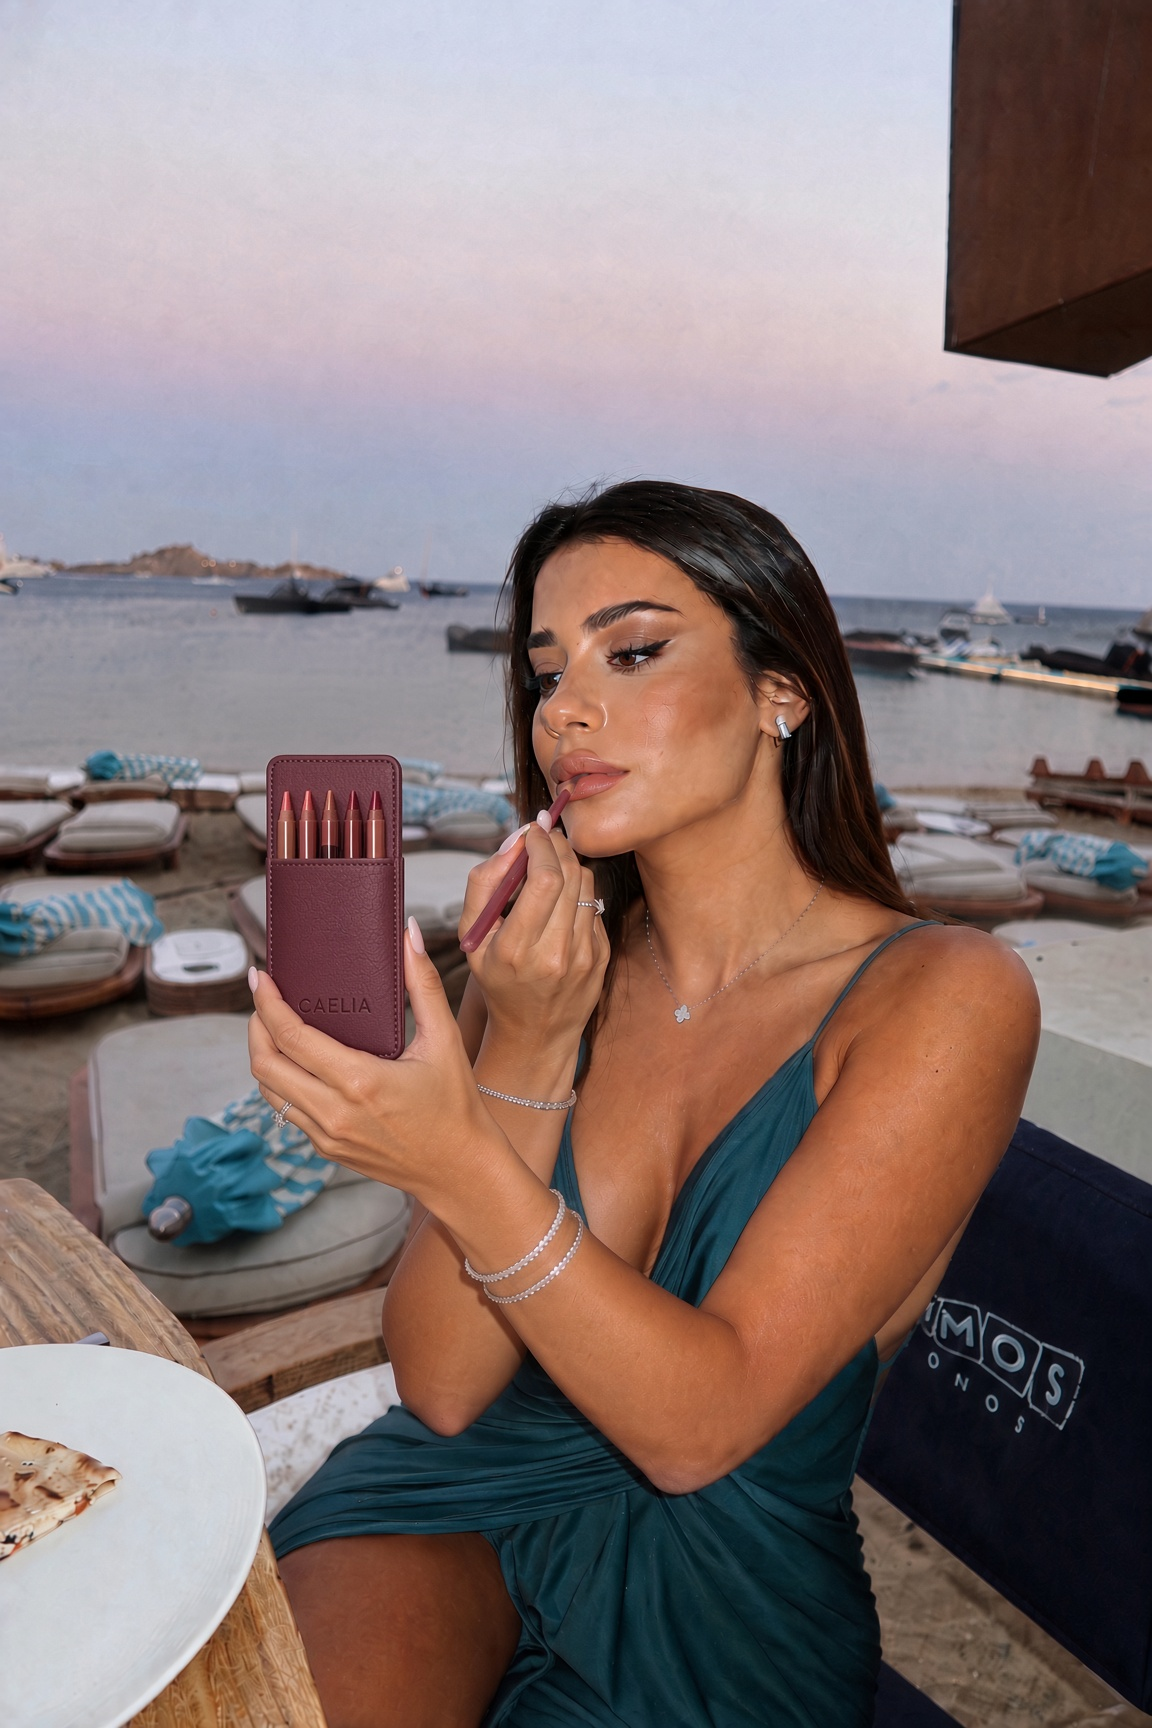
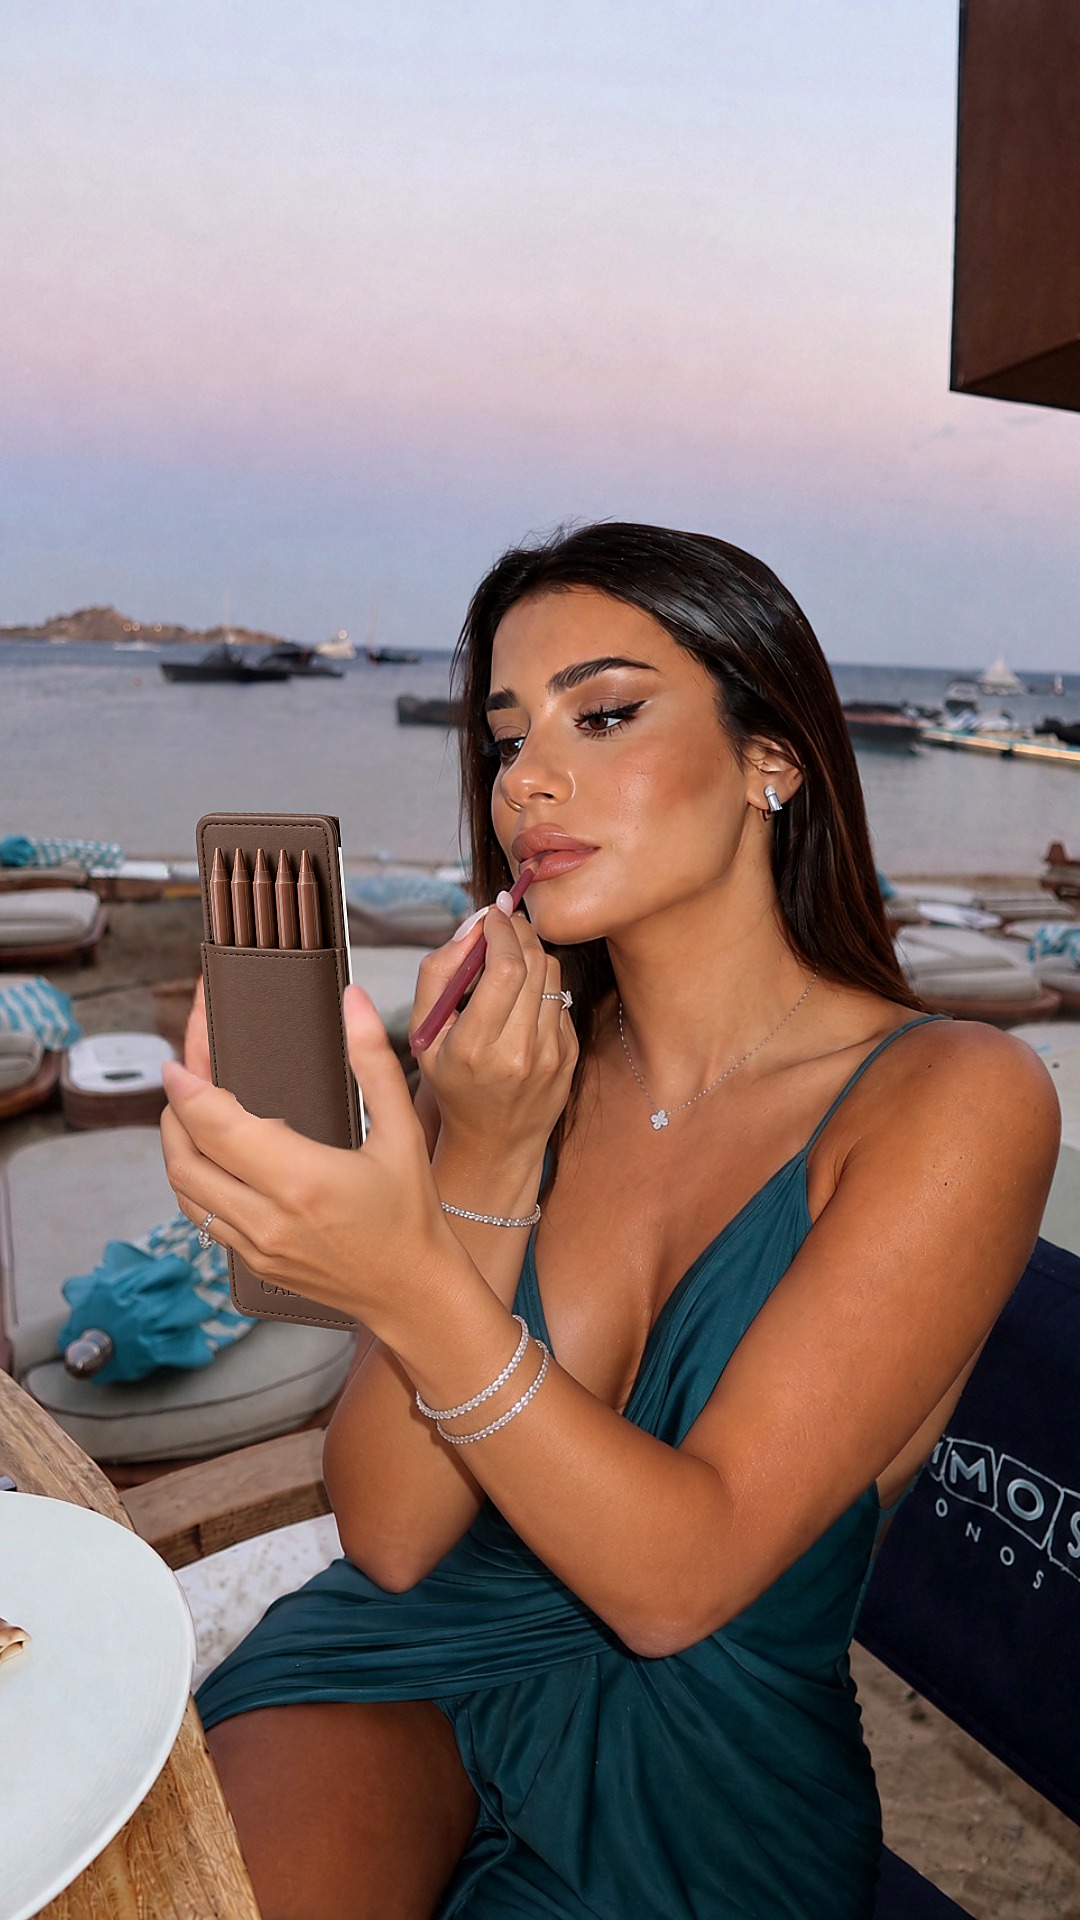
Use optimized Carla photo with natural hold and pencils in pocket.

diff --git a/src/lib/products.ts b/src/lib/products.ts
@@ -39,7 +39,7 @@ export const products: Product[] = [
     images: [
       { src: "/campaign/pair-berry.jpg", alt: "Burgundy Berry — astuccio e specchio" },
       { src: "/campaign/model-berry-pencils.jpg", alt: "Burgundy Berry — cinque matite" },
-      { src: "/campaign/life-carla.jpg", alt: "Carla con Burgundy Berry" },
+      { src: "/campaign/life-carla.jpg", alt: "Carla con CAELIA" },
       { src: "/campaign/life-plane.jpg", alt: "Burgundy Berry in viaggio" },
       { src: "/campaign/model-berry.jpg", alt: "Burgundy Berry — packshot" },
     ],
@@ -77,6 +77,7 @@ export const products: Product[] = [
       { src: "/campaign/cacao-mirror.jpg", alt: "Marrone — specchio" },
       { src: "/campaign/cacao-side.jpg", alt: "Marrone — profilo" },
       { src: "/campaign/cacao-angle.jpg", alt: "Marrone — tre quarti" },
+      { src: "/campaign/life-carla.jpg", alt: "Carla con CAELIA" },
     ],
     features,
   },

diff --git a/src/routes/about.tsx b/src/routes/about.tsx
@@ -7,7 +7,7 @@ const ease = [0.23, 1, 0.32, 1] as const;
 
 const frames = [
   { src: "/campaign/life-plane.jpg", alt: "In viaggio, CAELIA come specchio" },
-  { src: "/campaign/life-carla.jpg", alt: "Carla con CAELIA Burgundy Berry" },
+  { src: "/campaign/life-carla.jpg", alt: "Carla con CAELIA" },
   { src: "/campaign/life-apply.jpg", alt: "Il gesto" },
   { src: "/campaign/life-flatlay.jpg", alt: "Still life tre colori" },
   { src: "/campaign/life-meadow.jpg", alt: "Nel prato" },
@@ -37,7 +37,7 @@ function AboutPage() {
         </motion.div>
         <motion.img
           src="/campaign/life-carla.jpg"
-          alt="Carla con l’astuccio CAELIA Burgundy Berry"
+          alt="Carla con l’astuccio CAELIA"
           className="aspect-4/5 w-full object-cover"
           initial={{ opacity: 0, y: 20 }}
           whileInView={{ opacity: 1, y: 0 }}

diff --git a/src/routes/index.tsx b/src/routes/index.tsx
@@ -21,9 +21,9 @@ function Home() {
       <FilmChapter
         n="04"
         title="Carla."
-        body="Burgundy Berry, lo stesso oggetto."
+        body="Carla. Specchio in mano, matite in tasca."
         src="/campaign/life-carla.jpg"
-        alt="Carla con CAELIA Burgundy Berry"
+        alt="Carla con CAELIA"
       />
         n="05"
         body="I tre colori, insieme. Peonie, vanity, lo stesso gesto."
